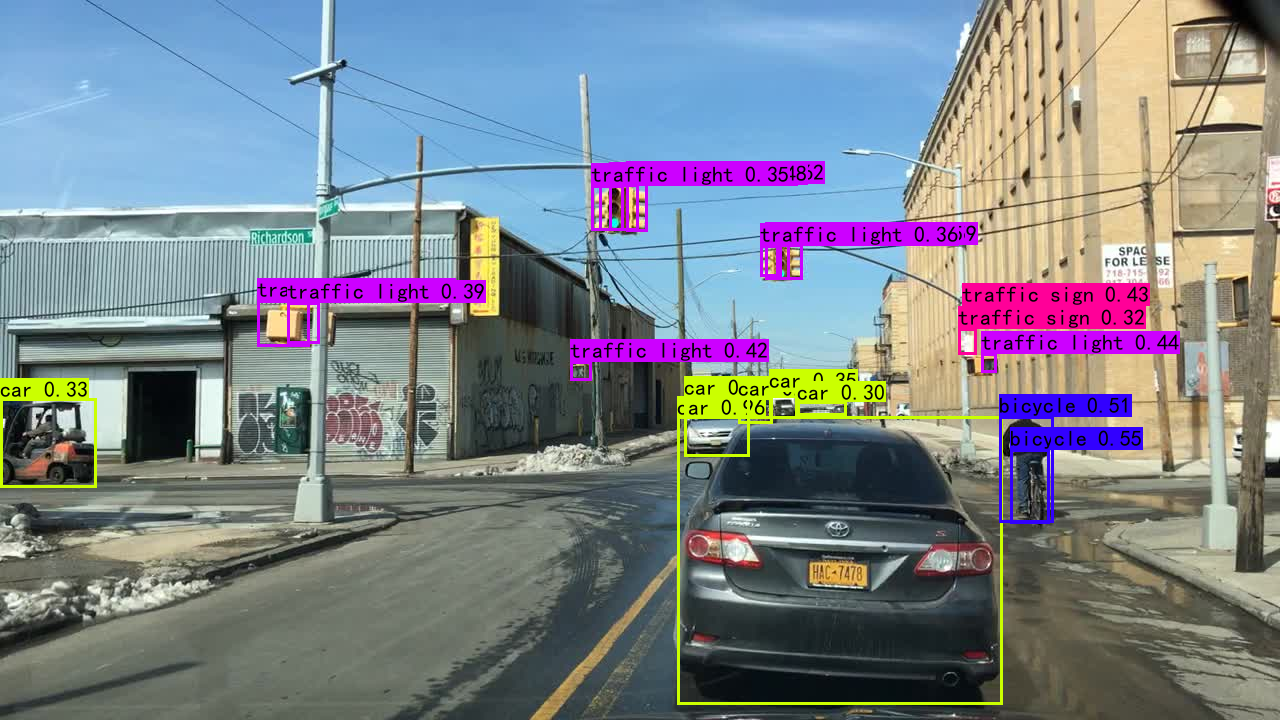
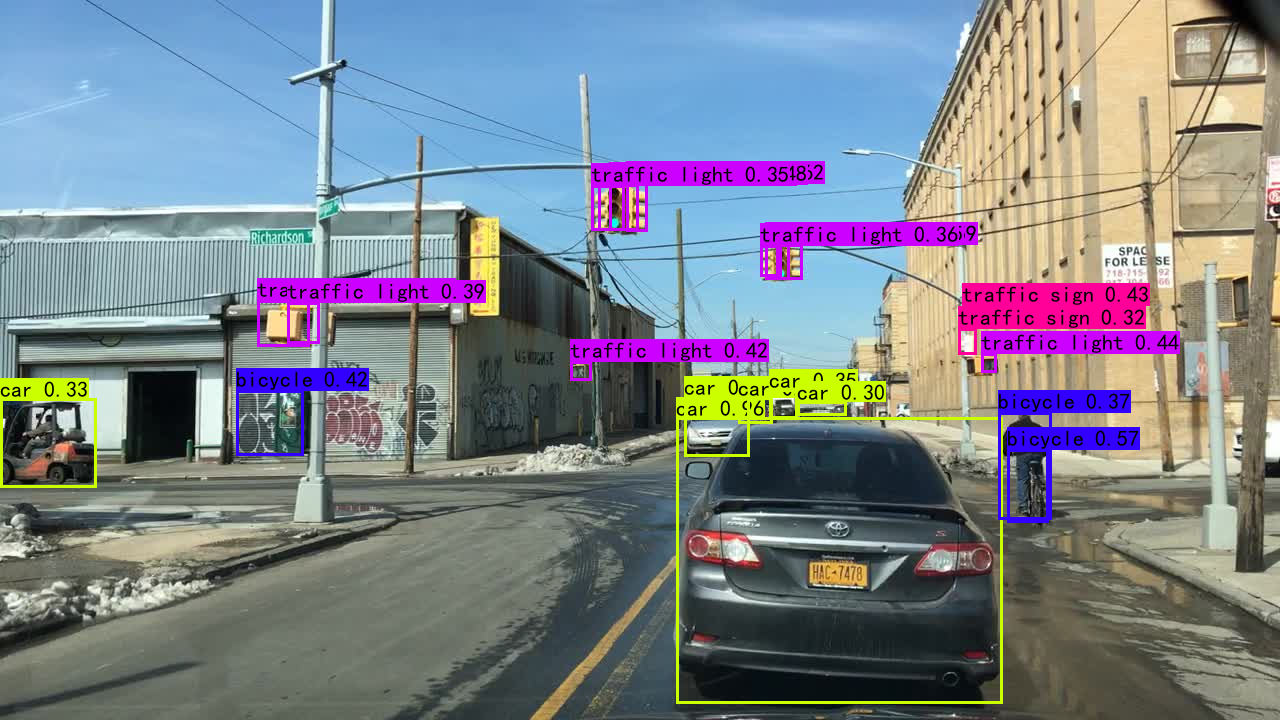
Fit ensemble method to evluation

diff --git a/yolo.py b/yolo.py
@@ -25,9 +25,8 @@ class YOLO(object):
         #   验证集损失较低不代表mAP较高，仅代表该权值在验证集上泛化性能较好。
         #   如果出现shape不匹配，同时要注意训练时的model_path和classes_path参数的修改
         #--------------------------------------------------------------------------#
-        # "model_path2"       : './logs/best_epoch_weights.h5', 
         # "model_path"        : './logs\ep020-loss0.878-val_loss0.861.h5',
-        "model_paths"       : ['./log_ensemble/best_epoch_weights_3.h5','./log_ensemble/best_epoch_weights_2.h5'],
+        "model_paths"       : ['./log_ensemble/best_epoch_weights_3.h5','./log_ensemble/best_epoch_weights_2.h5','./log_ensemble/best_epoch_weights_1.h5'],
         "classes_path"      : './model_data/bdd_classes.txt',
         "yolo_models"       : [],
         #---------------------------------------------------------------------#
@@ -192,45 +191,7 @@ class YOLO(object):
         #   将图像输入网络当中进行预测！
         #---------------------------------------------------------#
         input_image_shape = np.expand_dims(np.array([image.size[1], image.size[0]], dtype='float32'), 0)
-        outs = self.get_pred(image_data, input_image_shape) 
-
-        out_boxes_sum = outs[0][0]
-        out_scores_sum = outs[0][1]
-        out_classes_sum = outs[0][2]
-        if len(outs) > 1:
-            out_boxes_sum = tf.cast(out_boxes_sum, tf.int32)
-
-            for i in range(1,len(outs)):
-                out_boxes = tf.cast(outs[i][0],tf.int32)
-                out_scores = outs[i][1]
-                out_classes = outs[i][2]
-
-                out_boxes_sum = tf.concat([out_boxes_sum,out_boxes],0)
-                out_scores_sum = tf.concat([out_scores_sum,out_scores],0)
-                out_classes_sum = tf.concat([out_classes_sum,out_classes],0)
-            
-            out_boxes_sum = tf.cast(out_boxes_sum, tf.float32)
-
-            print("NMS start")
-            nms_index = tf.image.non_max_suppression(out_boxes_sum, out_scores_sum, 100, iou_threshold=0.5)
-            print("nms_index",nms_index)
-            print("NMS finsh")
-
-            out_boxes_sum         = K.gather(out_boxes_sum, nms_index)
-            out_scores_sum    = K.gather(out_scores_sum, nms_index)
-            out_classes_sum = K.gather(out_classes_sum,nms_index)
-
-            print("out_boxes_sum after gather:")
-            print(out_boxes_sum)
-            print ("out_scores_sum after gather:")
-            print(out_scores_sum)
-            print("out_classes_sum after gather:")
-            print(out_classes_sum)
-
-        out_boxes = out_boxes_sum
-        out_scores = out_scores_sum
-        out_classes = out_classes_sum
-
+        out_boxes, out_scores, out_classes = self.ensemble_predict(image_data,input_image_shape)
 
         print('Found {} boxes for {}'.format(len(out_boxes), 'img'))
         #---------------------------------------------------------#
@@ -267,38 +228,6 @@ class YOLO(object):
                 crop_image = image.crop([left, top, right, bottom])
                 crop_image.save(os.path.join(dir_save_path, "crop_" + str(i) + ".png"), quality=95, subsampling=0)
                 print("save crop_" + str(i) + ".png to " + dir_save_path)
-
-        #---------------------------------------------------------#
-        # Generate JSON file
-        # --------------------------------------------------------#
-        # out = {
-        #     "name":image_name,
-        #     "labels": []
-        # }
-        # for i, c in list(enumerate(out_classes)):
-        #     predicted_class = self.class_names[int(c)]
-        #     box             = out_boxes[i]
-        #     score           = out_scores[i]
-        #     top, left, bottom, right = box
-
-        #     top     = max(0, np.floor(top).astype('int32'))
-        #     left    = max(0, np.floor(left).astype('int32'))
-        #     bottom  = min(image.size[1], np.floor(bottom).astype('int32'))
-        #     right   = min(image.size[0], np.floor(right).astype('int32'))
-
-        #     predict = {
-        #         "id": i,
-        #         "category":predicted_class,
-        #         "score":'{:.2f}'.format(score),
-        #         "box2d": {"x1":int(top), "y1":int(left), "x2":int(bottom), "y2":int(right)}
-        #     }
-        #     out['labels'].append(predict)
-        # out_out = {
-        #     "frames":[out]
-        # }
-        # json_out = json.dumps(out_out)
-        # with open("BDD100K\VOC2007\JSON_out/sample.json", "w") as outfile:
-        #     outfile.write(json_out)
 
         
         #---------------------------------------------------------#
@@ -429,7 +358,7 @@ class YOLO(object):
         #   将图像输入网络当中进行预测！
         #---------------------------------------------------------#
         input_image_shape = np.expand_dims(np.array([image.size[1], image.size[0]], dtype='float32'), 0)
-        out_boxes, out_scores, out_classes = self.get_pred(image_data, input_image_shape) 
+        out_boxes, out_scores, out_classes = self.ensemble_predict(image_data, input_image_shape) 
 
         for i, c in enumerate(out_classes):
             predicted_class             = self.class_names[int(c)]
@@ -445,3 +374,41 @@ class YOLO(object):
 
         f.close()
         return 
+    
+    def ensemble_predict(self,image_data,input_image_shape):
+        outs = self.get_pred(image_data, input_image_shape)
+
+        out_boxes_sum = outs[0][0]
+        out_scores_sum = outs[0][1]
+        out_classes_sum = outs[0][2]
+        if len(outs) > 1:
+            out_boxes_sum = tf.cast(out_boxes_sum, tf.int32)
+
+            for i in range(1,len(outs)):
+                out_boxes = tf.cast(outs[i][0],tf.int32)
+                out_scores = outs[i][1]
+                out_classes = outs[i][2]
+
+                out_boxes_sum = tf.concat([out_boxes_sum,out_boxes],0)
+                out_scores_sum = tf.concat([out_scores_sum,out_scores],0)
+                out_classes_sum = tf.concat([out_classes_sum,out_classes],0)
+            
+            out_boxes_sum = tf.cast(out_boxes_sum, tf.float32)
+
+            # print("NMS start")
+            nms_index = tf.image.non_max_suppression(out_boxes_sum, out_scores_sum, 100, iou_threshold=0.5)
+            # print("nms_index",nms_index)
+            # print("NMS finsh")
+
+            out_boxes_sum = K.gather(out_boxes_sum, nms_index)
+            out_scores_sum = K.gather(out_scores_sum, nms_index)
+            out_classes_sum = K.gather(out_classes_sum,nms_index)
+
+            # print("out_boxes_sum after gather:")
+            # print(out_boxes_sum)
+            # print ("out_scores_sum after gather:")
+            # print(out_scores_sum)
+            # print("out_classes_sum after gather:")
+            # print(out_classes_sum)
+
+        return out_boxes_sum, out_scores_sum, out_classes_sum
